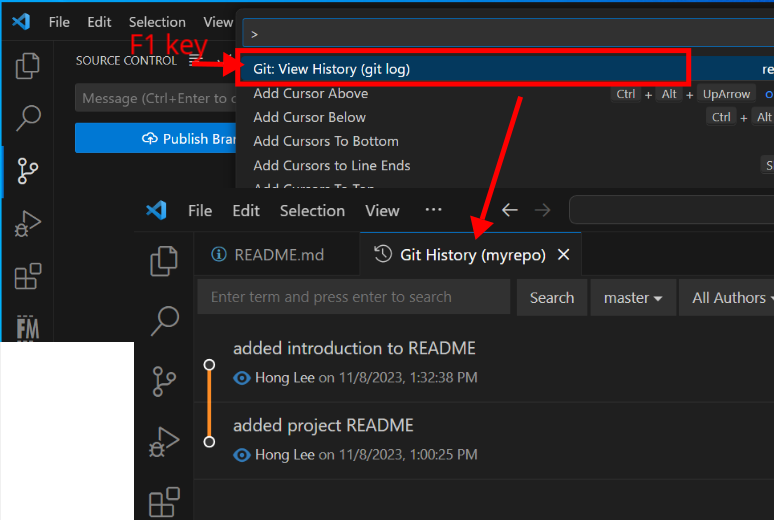
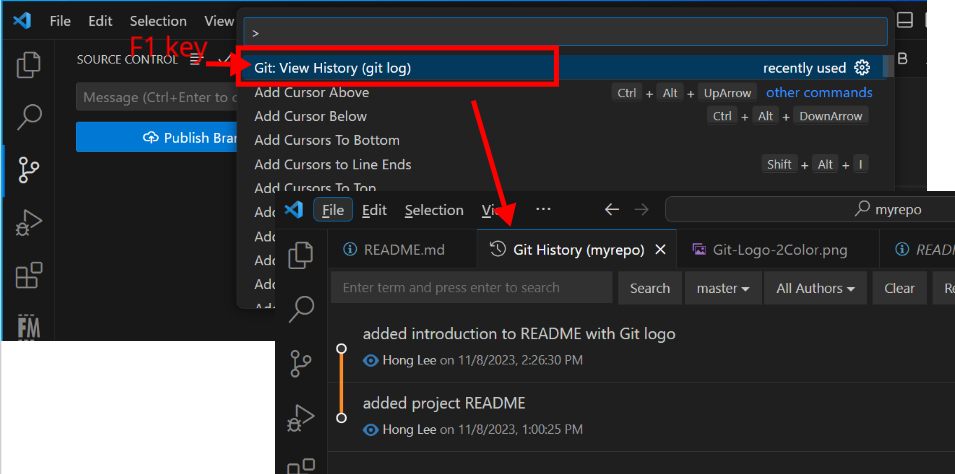
adjusted content for git commit

diff --git a/content/git/exercises/git_commit/index.md b/content/git/exercises/git_commit/index.md
@@ -55,17 +55,23 @@ Add a short sentence in the text field on top of the `Commit` button and click t
 
 ___Congratulations! You made your first Git commit.___
 
-## Make another change
+## Make more changes
 
 Let's make more changes to the README.md file.  Add the following lines to the file:
 
 ```markdown
 ## Introduction
 
-This project is for learning Git.
+This project is for learning [Git](https://git-scm.com).
+
+![git logo](Git-Logo-2Color.png)
 ```
 
-Save the file, and commit the change to the repository with a message `added introduction to README`.
+Save the file.
+
+Download the [Git Logo](https://git-scm.com/images/logos/downloads/Git-Logo-2Color.png) and add the logo into current project by dragging it into the VScode.
+
+Now commit the changes with a message `added introduction to README with Git logo`.
 
 {{<note type="tip">}}
 A commit can involve multiple changes.  It is practicle that related changes are made in a single commit. 
